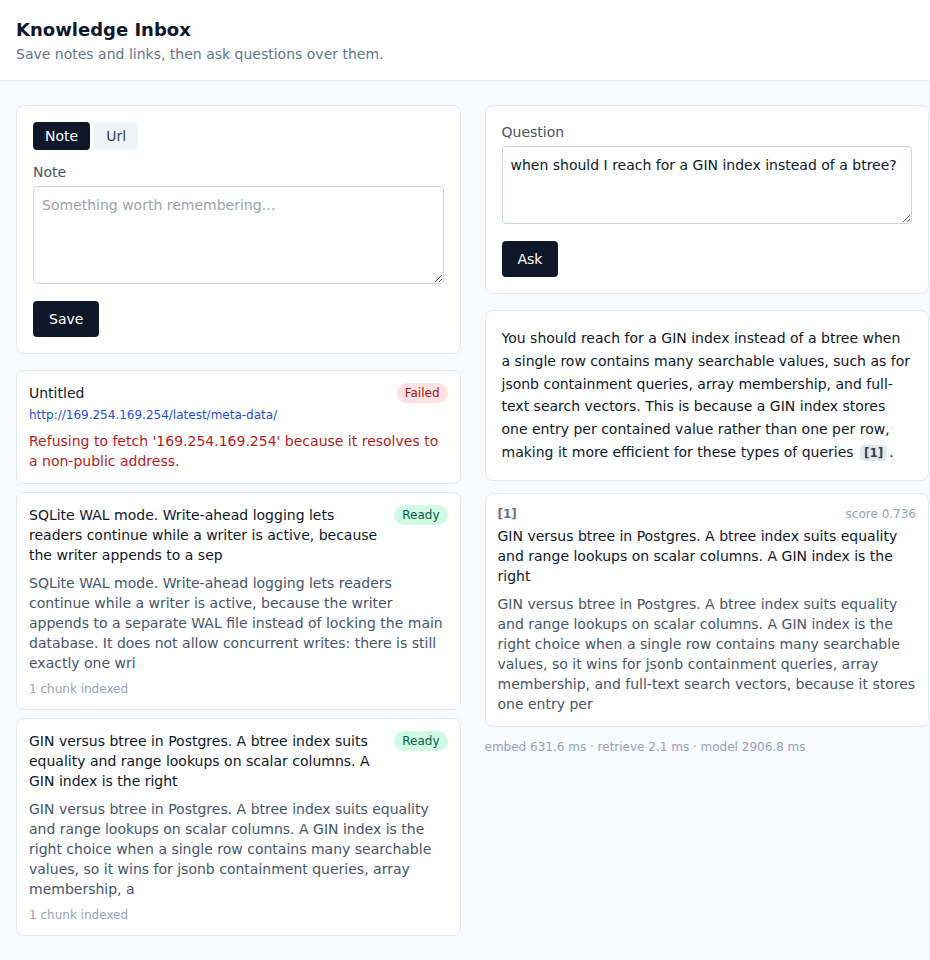
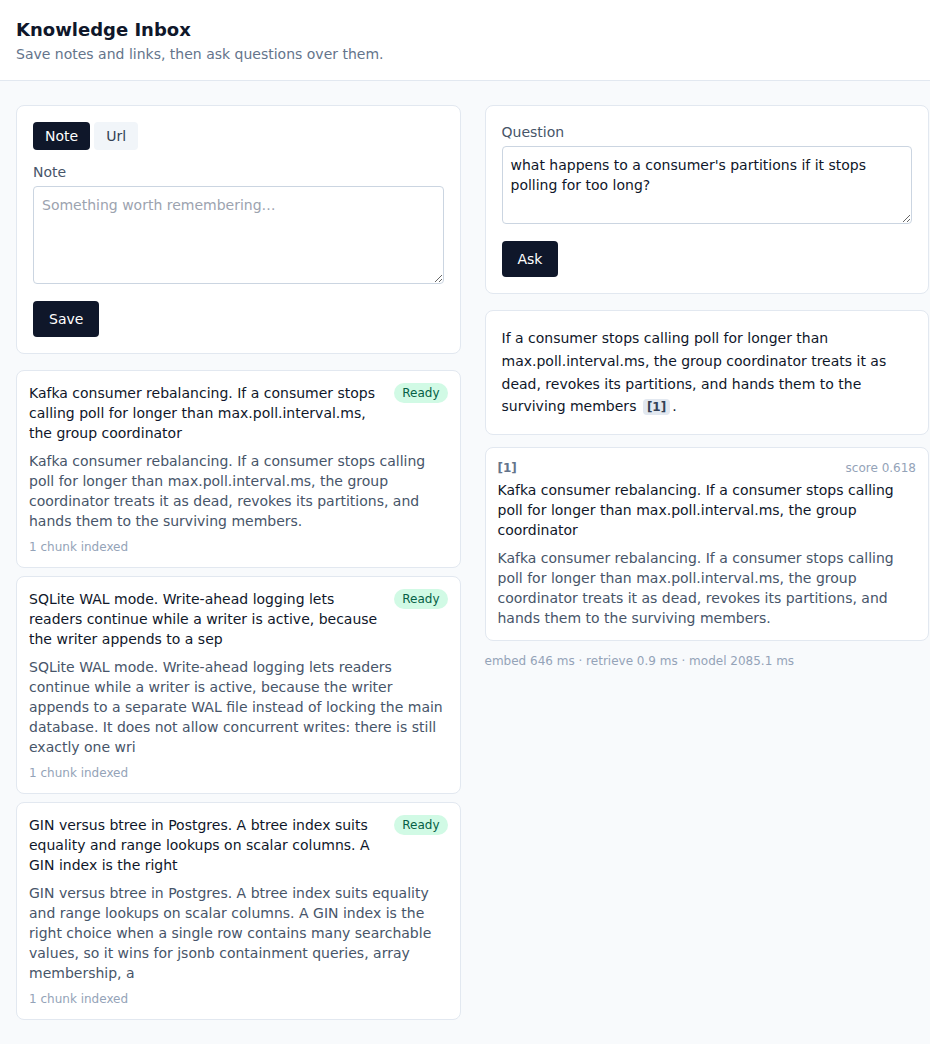
docs: lead with the app working, not with a red row
The hero shot had a failed item in it to show the SSRF guard. Wrong place
for it: a reviewer reads red before they read the caption. Hero is now a
clean run, and the failure moves to its own short section where the point
is that failures say why.

diff --git a/README.md b/README.md
@@ -10,12 +10,10 @@ The part worth looking at first is [`eval/`](eval/README.md) — a golden set
 that measures whether retrieval actually works, including against a plain
 keyword baseline it does not beat. 182 tests, none of which need an API key.
 
-![The app: a refused URL showing why, two indexed notes, and a cited answer](docs/app.png)
+![Three saved notes and a cited answer, with its retrieval score and latency split](docs/app.png)
 
-That screenshot is a real run, not a mockup. The red row is the SSRF guard
-refusing a link-local address and saying so on the item; the answer cites the
-note it came from, with the retrieval score and the embed/retrieve/model split
-underneath.
+A real run, not a mockup — the answer cites the note it came from, and the
+score and embed/retrieve/model split are what the API actually returned.
 
 ## Running it
 
@@ -113,6 +111,16 @@ connect — a hostile authoritative server could answer differently between
 the two lookups, and closing that TOCTOU gap properly is out of scope here.
 The API's keyset pagination on `/items` is implemented and tested, but the
 frontend only ever fetches the first page — there's no "load more" in the UI.
+
+## When something fails
+
+![An item refused by the SSRF guard, with the reason shown on the row](docs/failure.png)
+
+Nothing fails quietly. That's the SSRF guard turning down a link-local
+address — the shape of URL that otherwise walks into a cloud metadata
+endpoint — and the reason sits on the item, not only in the log. A bad key,
+an unreachable API and a rate limit each say which one happened, because
+"something went wrong" is useless to whoever has to fix it.
 
 ## If this went to production
 
